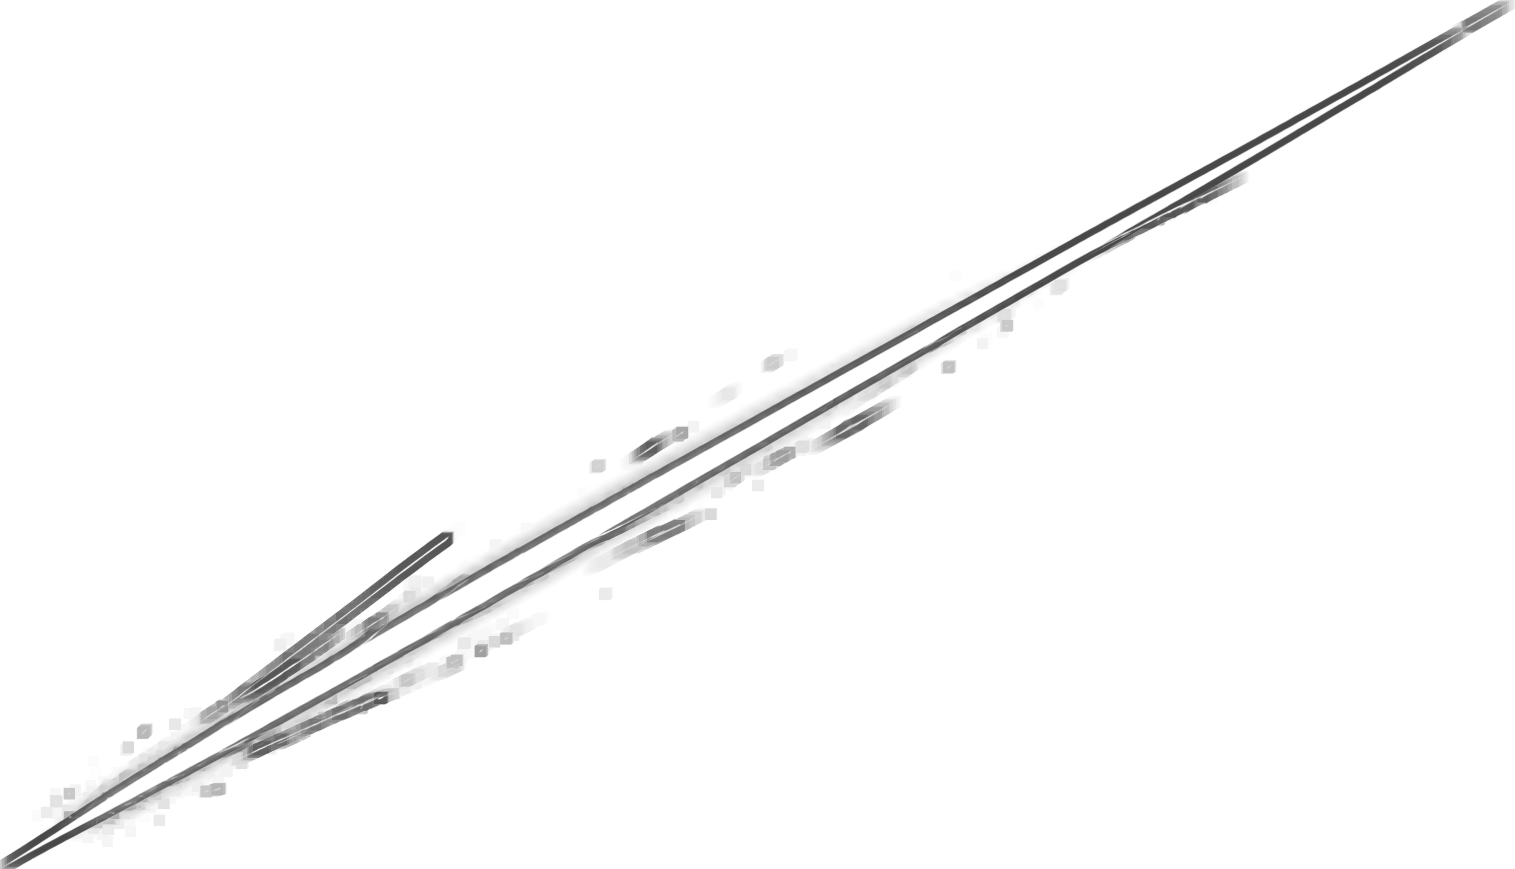
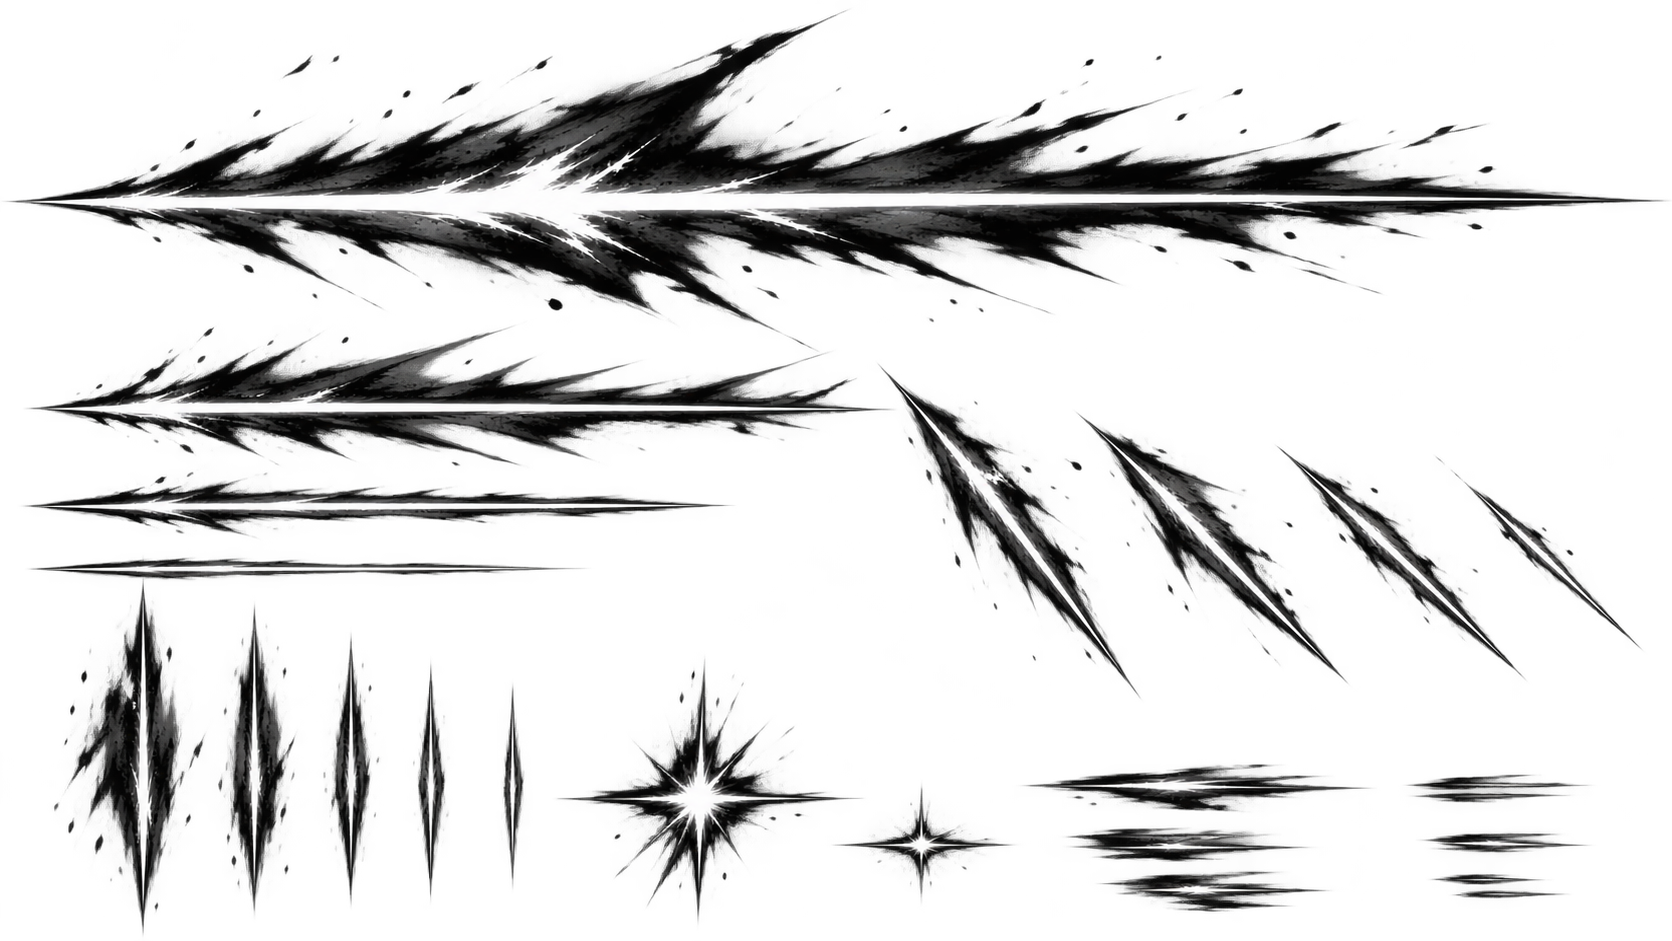
Add files via upload

diff --git a/app.js b/app.js
@@ -56,6 +56,19 @@ const DETECTION_INTERVAL_MS = 50; // ~20 FPS hand inference: still light, but mo
 const COMBO_WINDOW_MS = 1800;
 const MAX_PARTICLES = 18;
 
+// Supplied Dismantle sprite sheet. We crop one clean slash from the sheet
+// at spawn time, then rotate that centered sprite to any 360° direction.
+const dismantleSheet = new Image();
+dismantleSheet.src = "./dismantle-vfx.png?v=27";
+
+const DISMANTLE_SPRITES = [
+  { x: 0, y: 0, w: 1672, h: 315 },   // main long slash
+  { x: 15, y: 300, w: 880, h: 175 }, // medium slash
+  { x: 10, y: 455, w: 730, h: 105 }, // thin slash
+  { x: 850, y: 320, w: 500, h: 380 }, // diagonal slash
+  { x: 55, y: 565, w: 470, h: 370 }   // vertical slash family
+];
+
 function setStatus(text) {
   statusEl.textContent = text;
 }
@@ -658,6 +671,28 @@ function spawnParticles(point) {
   }
 }
 
+function cropDismantleSprite(sprite, targetWidth, targetHeight) {
+  const canvas = document.createElement("canvas");
+  const ratio = Math.min(targetWidth / sprite.w, targetHeight / sprite.h);
+  const w = Math.max(1, Math.round(sprite.w * ratio));
+  const h = Math.max(1, Math.round(sprite.h * ratio));
+
+  canvas.width = w;
+  canvas.height = h;
+  canvas.className = "dismantle-projectile-art";
+
+  const c = canvas.getContext("2d");
+  c.imageSmoothingEnabled = true;
+  c.imageSmoothingQuality = "high";
+  c.drawImage(
+    dismantleSheet,
+    sprite.x, sprite.y, sprite.w, sprite.h,
+    0, 0, w, h
+  );
+
+  return canvas;
+}
+
 function spawnSlash(direction, point, demo = false, vector = null) {
   const videoRect = video.getBoundingClientRect();
   const layerRect = slashLayer.getBoundingClientRect();
@@ -671,18 +706,17 @@ function spawnSlash(direction, point, demo = false, vector = null) {
     angle = (Math.atan2(vector.y, vector.x) * 180 / Math.PI + 360) % 360;
   }
 
-  // The artwork itself is diagonal, so compensate for its built-in angle.
-  const ART_AXIS_DEG = -30;
-  const rotation = angle - ART_AXIS_DEG;
-
+  // The sprite sheet contains slashes whose natural axis is horizontal.
+  // Rotating the CENTER of the crop gives a true 360° slash without the
+  // old corner/tip anchoring problem.
+  const rotation = angle;
   const diagonal = Math.hypot(videoRect.width, videoRect.height);
-  const slashWidth = Math.max(280, Math.min(520, diagonal * 0.38));
-  const slashHeight = slashWidth * (869 / 1515);
+  const slashWidth = Math.max(300, Math.min(650, diagonal * 0.48));
+  const slashHeight = slashWidth * 0.30;
 
-  const startX = launch.x + videoRect.left - layerRect.left;
-  const startY = launch.y + videoRect.top - layerRect.top;
+  const startX = Math.max(0, Math.min(layerRect.width, launch.x + videoRect.left - layerRect.left));
+  const startY = Math.max(0, Math.min(layerRect.height, launch.y + videoRect.top - layerRect.top));
 
-  // Never leave old normal slashes behind. There is one live Dismantle only.
   if (!demo && activeDismantle?.element) {
     activeDismantle.element.remove();
     activeDismantle = null;
@@ -696,28 +730,31 @@ function spawnSlash(direction, point, demo = false, vector = null) {
   projectile.style.height = `${slashHeight}px`;
   projectile.style.setProperty("--slash-rotation", `${rotation}deg`);
 
-  const slash = document.createElement("img");
-  slash.src = `./dismantle-vfx.png?v=26`;
-  slash.alt = "";
-  slash.draggable = false;
-  slash.className = "dismantle-projectile-art";
-  slash.width = Math.round(slashWidth);
-  slash.height = Math.round(slashHeight);
+  const sprite = DISMANTLE_SPRITES[Math.floor(Math.random() * DISMANTLE_SPRITES.length)];
+  const art = dismantleSheet.complete && dismantleSheet.naturalWidth
+    ? cropDismantleSprite(sprite, slashWidth, slashHeight)
+    : document.createElement("div");
 
-  projectile.appendChild(slash);
+  if (art.tagName === "DIV") {
+    art.className = "slash-fallback";
+    art.style.left = "0";
+    art.style.top = "50%";
+    art.style.width = "100%";
+    art.style.height = "4px";
+  }
+
+  projectile.appendChild(art);
   slashLayer.appendChild(projectile);
 
-  const duration = demo ? 520 : 360;
+  const duration = demo ? 560 : 430;
   const start = performance.now();
-
   const active = {
     element: projectile,
     x: startX,
     y: startY,
     angle,
     rotation,
-    vector: vector ? { ...vector } : { x: 1, y: 0 },
-    artAxisDeg: ART_AXIS_DEG
+    vector: vector ? { ...vector } : { x: 1, y: 0 }
   };
 
   if (!demo) activeDismantle = active;
@@ -728,22 +765,20 @@ function spawnSlash(direction, point, demo = false, vector = null) {
     const elapsed = now - start;
     const t = Math.min(1, elapsed / duration);
 
-    // Quick manifestation: small -> full size, then a short hold/fade.
-    const growT = Math.min(1, t / 0.11);
-    const grow = 0.06 + growT * 0.94;
-
+    // Natural "zap": a very fast appearance, a short visible hold, then fade.
+    const growT = Math.min(1, t / 0.10);
+    const grow = 0.12 + growT * 0.88;
     let opacity = 1;
-    if (t < 0.025) opacity = t / 0.025;
-    else if (t > 0.78) opacity = 1 - ((t - 0.78) / 0.22);
+    if (t < 0.035) opacity = t / 0.035;
+    else if (t > 0.76) opacity = 1 - ((t - 0.76) / 0.24);
 
-    // Position is a snapshot: once spawned, the slash stays fixed in place.
+    // FIXED SPAWN: the slash never reads the live hand position after spawn.
     projectile.style.transform =
-      `translate3d(-50%, -50%, 0) rotate(var(--slash-rotation, 0deg)) scaleX(${grow})`;
+      `translate3d(-50%, -50%, 0) rotate(${rotation}deg) scale(${grow})`;
     projectile.style.opacity = opacity.toFixed(3);
 
-    if (t < 1) {
-      requestAnimationFrame(animateSlash);
-    } else {
+    if (t < 1) requestAnimationFrame(animateSlash);
+    else {
       if (activeDismantle?.element === projectile) activeDismantle = null;
       projectile.remove();
     }
@@ -751,17 +786,15 @@ function spawnSlash(direction, point, demo = false, vector = null) {
 
   requestAnimationFrame(animateSlash);
 
-  const fragmentCount = demo ? 3 : 1;
+  // Tiny center impact accents only — no extra arrow/curve is added.
+  const fragmentCount = demo ? 2 : 1;
   for (let i = 0; i < fragmentCount; i++) {
     const fragment = document.createElement("span");
     fragment.className = "slash-fragment slash-fragment-v19";
     fragment.style.left = `${startX}px`;
     fragment.style.top = `${startY}px`;
-    fragment.style.setProperty(
-      "--fragment-angle",
-      `${angle + (Math.random() - 0.5) * 7}deg`
-    );
-    fragment.style.setProperty("--fragment-distance", `${12 + Math.random() * 28}px`);
+    fragment.style.setProperty("--fragment-angle", `${angle + (Math.random() - 0.5) * 6}deg`);
+    fragment.style.setProperty("--fragment-distance", `${8 + Math.random() * 18}px`);
     fragment.style.setProperty("--fragment-delay", `${i * 18}ms`);
     slashLayer.appendChild(fragment);
     setTimeout(() => fragment.remove(), 180);

diff --git a/index.html b/index.html
@@ -33,7 +33,7 @@
       <div class="resource-row">
         <div class="resource-label">
           <span>ENERGY</span>
-          <span id="energyText">100 / 100</span>
+          <span id="energyText">300 / 300</span>
         </div>
         <div class="resource-bar energy-bar"><i id="energyBar"></i></div>
       </div>
@@ -76,6 +76,6 @@
     </section>
   </main>
 
-  <script type="module" src="./app.js?v=23"></script>
+  <script type="module" src="./app.js?v=27"></script>
 </body>
 </html>

diff --git a/README.md b/README.md
@@ -206,3 +206,8 @@ The Dismantle slash remains anchored to the index fingertip during its short str
 - Finger movement controls rotation only.
 - Slash expands from its center and never flies away.
 - 360-degree directions are supported.
+
+
+## v27 Dismantle VFX
+
+Uses the supplied black/white Dismantle VFX sheet. The app crops a clean slash sprite at runtime, centers it on the detected fingertip position at the instant of activation, rotates it to the swipe direction (full 360 degrees), and then leaves the effect fixed while it zaps/fades out. The hand can move afterward without dragging the already-spawned slash.
